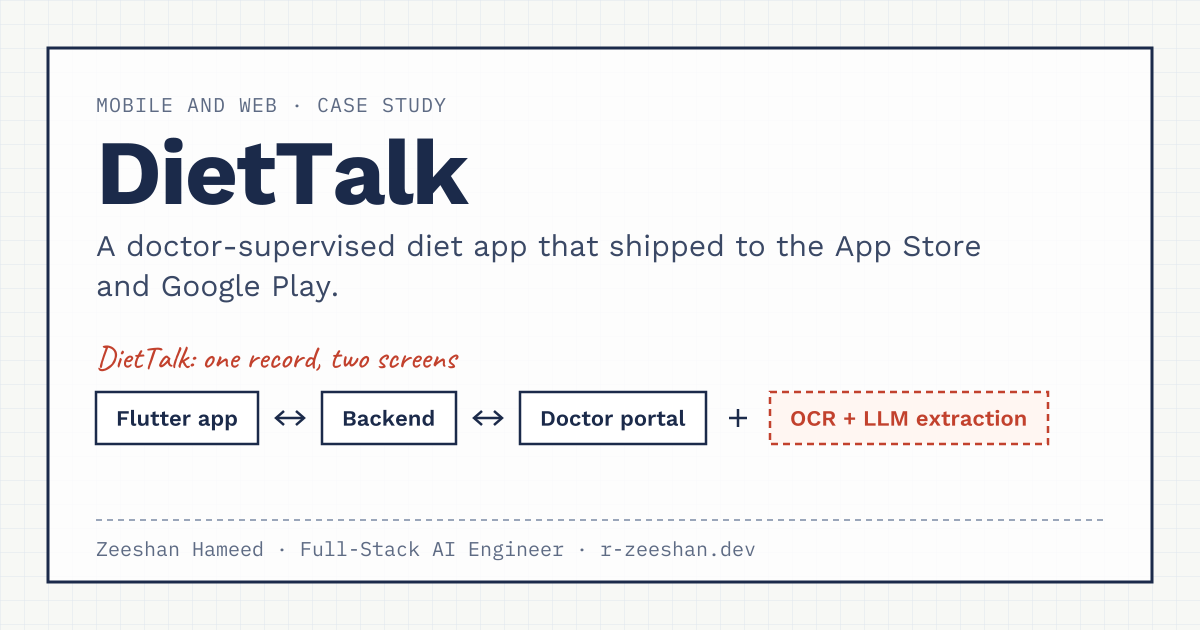
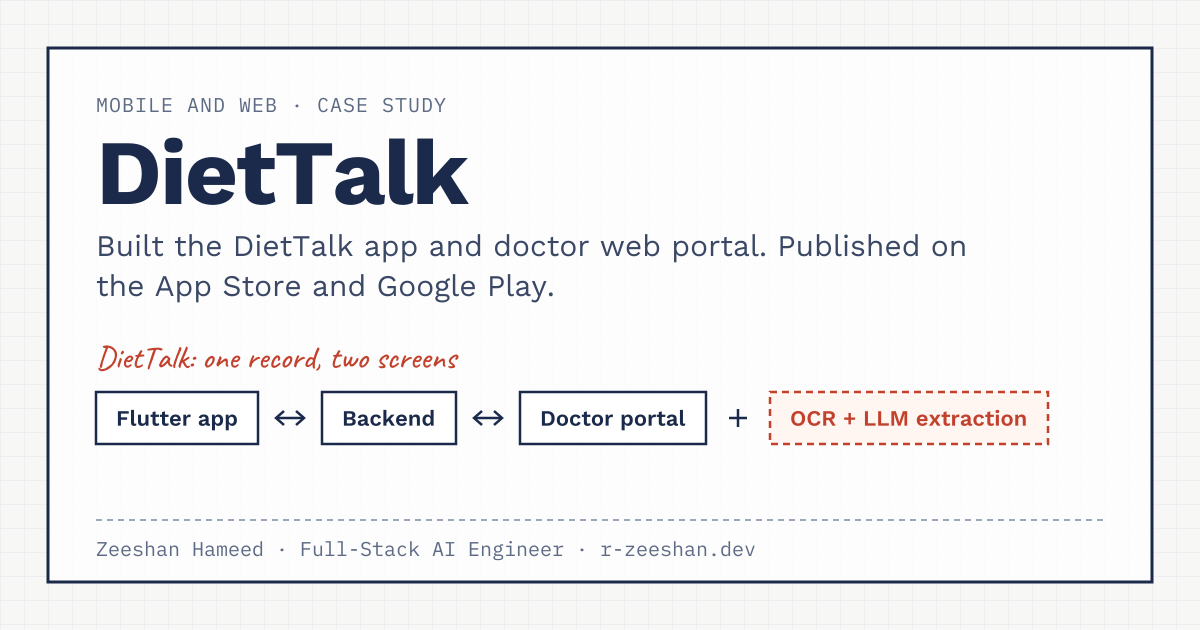
DietTalk: past tense wording and 2025 to 2026 dates

Changed region(s): [[0.0617, 0.3619, 0.8325, 0.4825]]

diff --git a/src/lib/work.ts b/src/lib/work.ts
@@ -277,10 +277,10 @@ export const caseStudies: CaseStudy[] = [
     name: 'DietTalk',
     tag: 'Mobile and web',
     ogImage: '/og/work-diettalk.png',
-    oneLiner: 'A doctor-supervised diet and weight management product: a Flutter app for patients and a web portal for doctors.',
+    oneLiner: 'Built the DietTalk app and doctor web portal for a doctor-supervised diet and weight program. Published on the App Store and Google Play.',
     cardBlurb:
-      'A doctor-supervised diet and weight management product: a Flutter app for patients and a web portal for doctors, with OCR that reads lab results to auto-fill the clinical workflow. It shipped to both app stores.',
-    shortLine: 'A doctor-supervised diet app that shipped to the App Store and Google Play.',
+      'Built the DietTalk app and doctor web portal for a doctor-supervised diet and weight program. Published on the App Store and Google Play. Its OCR read lab results to auto-fill the clinical workflow.',
+    shortLine: 'Built the DietTalk app and doctor web portal. Published on the App Store and Google Play.',
     diagram: {
       caption: 'DietTalk: one record, two screens',
       nodes: [
@@ -291,16 +291,16 @@ export const caseStudies: CaseStudy[] = [
       ],
     },
     role: 'Mobile and full-stack engineer',
-    timeline: 'June 2025 to present',
+    timeline: '2025 to 2026',
     stack: ['Flutter', 'iOS + Android', 'Web portal', 'PostgreSQL', 'Supabase', 'OCR + LLM extraction'],
     metaTitle: 'DietTalk mobile app and doctor portal case study | Zeeshan Hameed',
     metaDescription:
-      'DietTalk is a doctor-supervised diet and weight management product: one Flutter codebase shipped to iOS and Android, a doctor web portal, and OCR that reads lab results to auto-fill the workflow.',
+      'Built the DietTalk app and doctor web portal for a doctor-supervised diet and weight program: one Flutter codebase for iOS and Android, and OCR that read lab results to auto-fill the workflow. Published on the App Store and Google Play.',
     problem: [
-      'DietTalk needed to work for two very different users at once: patients tracking their diet and weight from their phone, and doctors supervising them and sending guidance. That is a mobile app and a clinical web tool, tied to the same patient data, and it had to ship to both app stores.',
+      'DietTalk needed to work for two very different users at once: patients tracking their diet and weight from their phone, and doctors supervising them and sending guidance. That meant a mobile app and a clinical web tool, tied to the same patient data, and it had to ship to both app stores.',
     ],
     built: [
-      'DietTalk is a doctor-supervised diet and weight management product. Patients use a Flutter mobile app to track diet and weight; doctors use a web portal to supervise and send guidance, with AI insights on top. It shipped to the App Store and Google Play.',
+      'Built the DietTalk app and doctor web portal for a doctor-supervised diet and weight program. Published on the App Store and Google Play. Patients used a Flutter mobile app to track diet and weight; doctors used a web portal to supervise and send guidance, with AI insights on top.',
       'I built the mobile app in Flutter for both iOS and Android, the doctor-facing web portal, and the backend on PostgreSQL and Supabase that connects them.',
     ],
     hardParts: [
@@ -313,12 +313,12 @@ export const caseStudies: CaseStudy[] = [
       {
         title: 'Reading documents instead of re-typing them',
         body: [
-          'Instead of making people re-type everything, the product reads lab results and captures patient details straight off documents, then uses that to auto-fill the clinical workflow. It removes a pile of manual data entry, and it means the data doctors act on comes from the source. Health data is handled securely throughout.',
+          'Instead of making people re-type everything, the product read lab results and captured patient details straight off documents, then used that to auto-fill the clinical workflow. It removed a pile of manual data entry, and it meant the data doctors acted on came from the source. Health data was handled securely throughout.',
         ],
       },
     ],
     now: [
-      'DietTalk shipped to the App Store and Google Play and was used by patients and the doctors supervising them.',
+      'DietTalk was published on the App Store and Google Play and was used by patients and the doctors supervising them.',
     ],
   },
   {

diff --git a/README.md b/README.md
@@ -31,7 +31,7 @@ data and providers that go down. That second part is most of what I do.
 | **Jema AIgent** | Clinical AI platform for Korean medicine, used by doctors in Korea. |
 | **CuePilates** | AI Pilates class-planning SaaS, idea to launch in under a month. [Live](https://www.cuepilates.fit) |
 | **TrueCert** | Certification platform that replaced spreadsheets and site visits for a recycling company. |
-| **DietTalk** | Doctor-supervised diet and weight management app on iOS and Android, with a doctor portal. |
+| **DietTalk** | Built the DietTalk app and doctor web portal for a doctor-supervised diet and weight program. Published on the App Store and Google Play. |
 | **Invoice AI** | Document AI that reads invoice PDFs into structured data, with duplicate detection and a dashboard. |
 | **Dr. AIgent** | Multi-model engine that turns recorded consultations into structured SOAP reports. |
 | **Production rescue** | Two existing apps for one client: a FastAPI and React pipeline made stable, and a Next.js app hardened after its production database was wiped. |
